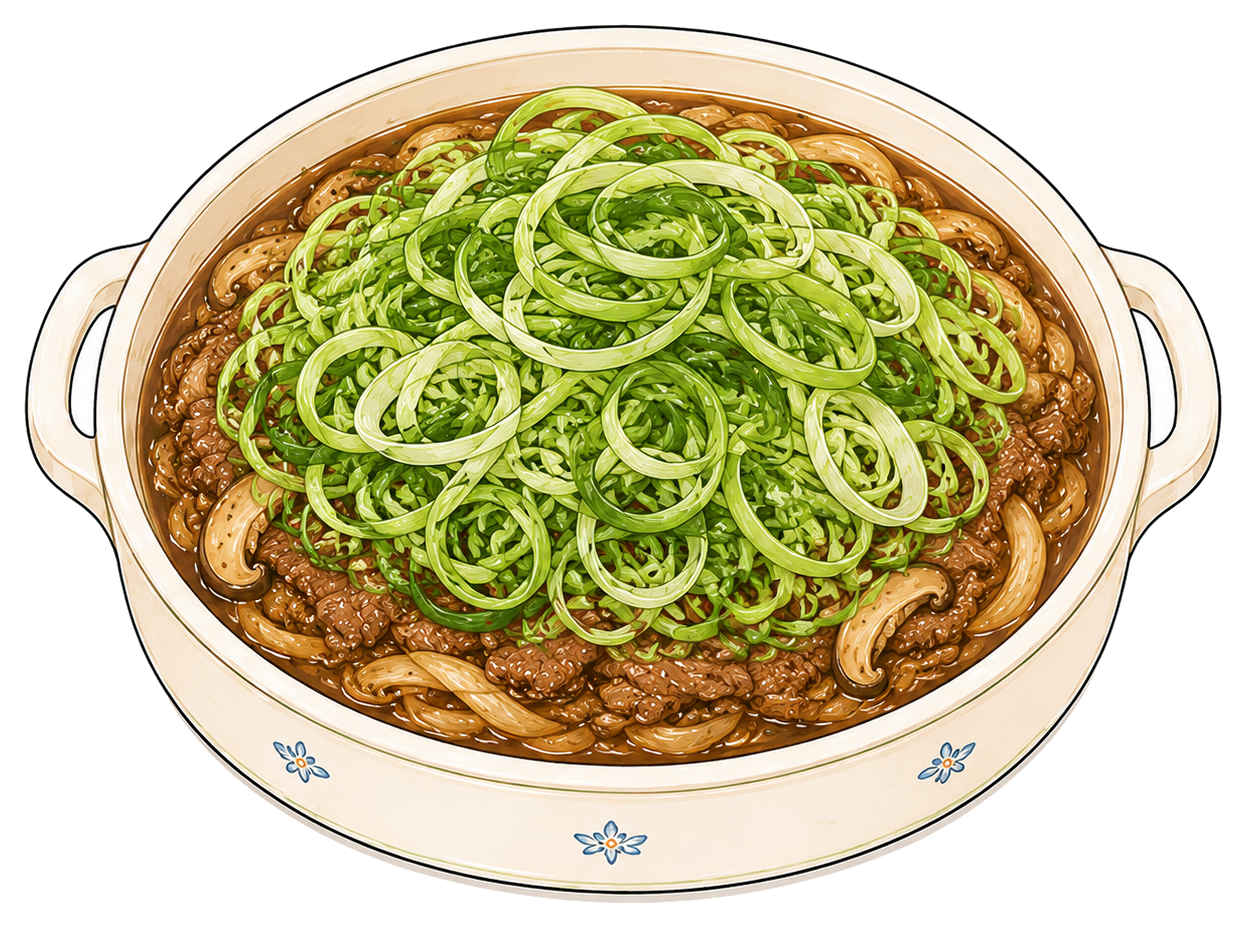
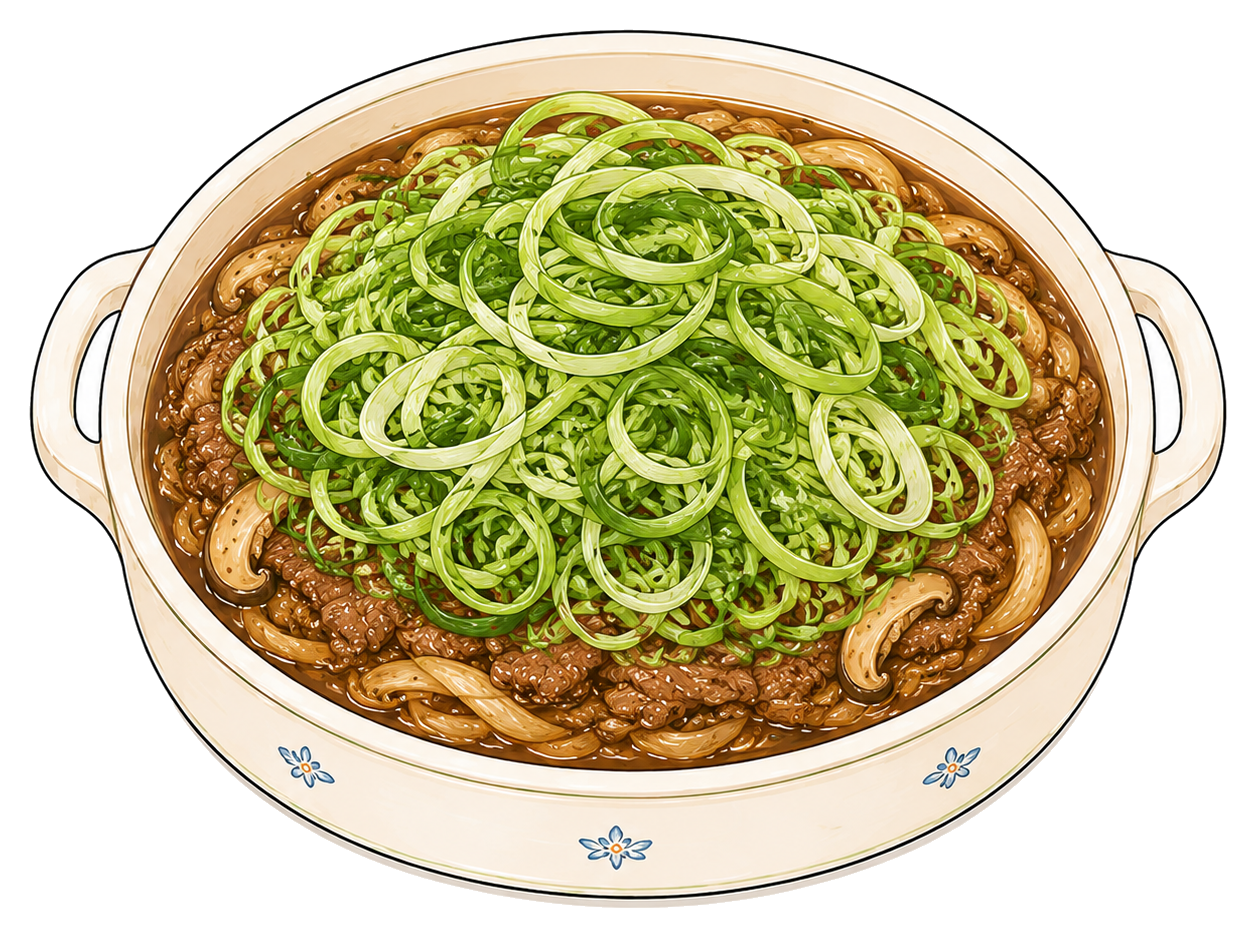
✂ 단독 컷 둘을 다시 잘랐다 — 흰 테가 «앱에서» 얇아 보이던 것
⛔ cut-guard 훅이 잡았다 — 진한 판을 안 열어보고 넘어가려 했다(규칙 21).
   열어보니 갈비살조림·대파듬뿍만 접시 둘레 흰 테가 거의 안 보였다.

⭐⭐ 원인 = **px 로 맞추고 «비율»로 안 맞췄다.**
   앱은 컷을 전부 238px 로 줄여 그린다. 그런데 원본 크기가 제각각이다 —
     시트 컷 465~702px · 단독 컷 1202~1246px
   같은 8px 을 둘러도 앱에서는 **1.5px vs 2.4px** = 60% 두께가 된다.
   숫자로 재기 전엔 「게이트가 통과했으니 괜찮다」로 넘어갈 뻔했다(게이트는 비율만 본다).

✅ diecut 8 → 13 (0.64% → 1.04% · 앱에서 2.46·2.55px = 시트 컷과 같다)
📌 규칙 = 흰 테는 «px»이 아니라 **긴변 대비 비율(≈1.0%)** 로 맞춘다.

⚠ 다시 자르면 «비율도 바뀐다» → PHOTO_RATIO 도 같이 고쳤다(검수 절대원칙 ④)
   fe_314 1.3427 → 1.3390 · fe_328 1.2430 → 1.2405
   ＋ icon-checked.json 해시도 갱신(그림이 바뀌면 판독 기록이 낡는다)

🔒 build 0 · smoke 0 · 진한 판 5장 전부 눈으로 확인(흰 잔재·바닥 얼룩 0)

Claude-Session: https://claude.ai/code/session_01FxApkQkfqgWWNZhgiynRFA

diff --git a/hankki/src/components/Stickers.jsx b/hankki/src/components/Stickers.jsx
@@ -165,9 +165,14 @@ const PHOTO_RATIO = {
   // 🍲 2026-08-18 창업자 시트 3장 ＋ 단독 재판 — 「지금 붙는 그림이 겹친다」고 알린 12편에 대한 답
   //    📮 창업자 *"대파듬뿍 다시뽑을게"* → **어슷썰기 판은 버리고 채썬 판(fe_314)으로.**
   //    ⛔ 「초간단 순살 갈비찜」은 여기 없다 — 창업자가 *"이건 갈비살이구나 내가 다시뽑아줄게"*
-  fe_314: 1.3427, fe_315: 1.1919, fe_316: 1.1820, fe_317: 1.2711, fe_318: 1.2377, fe_319: 1.2420, fe_320: 1.1923,
+  fe_314: 1.3390, fe_315: 1.1919, fe_316: 1.1820, fe_317: 1.2711, fe_318: 1.2377, fe_319: 1.2420, fe_320: 1.1923,
   fe_321: 1.3211, fe_322: 1.3133, fe_323: 1.2196, fe_324: 1.3128, fe_325: 1.2316, fe_326: 1.2203, fe_327: 1.2049,
-  fe_328: 1.2430,   // 갈비살조림 — 창업자가 그 자리에서 다시 뽑아 준 컷
+  fe_328: 1.2405,   // 갈비살조림 — 창업자가 그 자리에서 다시 뽑아 준 컷
+  // ⚠ 단독 컷 둘(fe_314·fe_328)은 «다시 잘랐다» — diecut 8 → 13.
+  //    ⭐ 원본이 크면(1200px대) 같은 px 두께라도 **앱에서 얇아진다** — 앱은 전부 238px 로 줄여 그린다.
+  //       8px = 앱에서 1.5px 인데 시트 컷은 2.4px 였다(60% 두께라 눈에 띄게 얇았다).
+  //    📌 흰 테는 «px»이 아니라 **긴변 대비 비율(≈1.0%)** 로 맞춘다. 그래야 나란히 놓았을 때 같다.
+  //    ⛔ 다시 자르면 «비율도 바뀐다» — 여기 값을 같이 고쳐야 한다(검수 절대원칙 ④).
   fh_hnc03: 1.0867, fh_htj13: 1.1181, fh_hnc04: 1.1256, fh_hnb01: 1.0252, fh_htj01: 1.0218, fh_hnc01: 1.1092, fh_hnc10: 1.2081, fh_hnc06: 1.3209, fh_hnb08: 1.2864, fh_htj05: 1.1992,
   // 🍚 한식 완성요리 뉴세트(2026-07-23·37종, 진짜 음식같은 아이콘 → 레시피 썸네일 자동매칭용). docs/stickers/음식아이콘-2507
   fh_k01: 1.0883, fh_k02: 1.0958, fh_k03: 1.0226, fh_k04: 1.1515, fh_k05: 1.0338, fh_k06: 1.1154,
